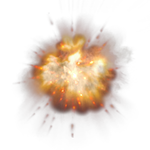
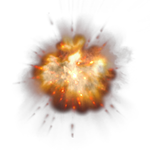
Exploding Asteroids

Changed region(s): [[0.2133, 0.24, 0.7733, 0.7467]]

diff --git a/lib/explosion.js b/lib/explosion.js
@@ -19,27 +19,34 @@
     window.Asteroids = {};
   };
 
-  var Explosion = Asteroids.Explosion = function (pos, game){
+  var Explosion = Asteroids.Explosion = function (pos, game, radius){
 
     this.pos = pos;
-    this.radius = 75;
+    this.radius = radius;
     this.game = game
     this.img = new Image ();
+    if(radius > 50){
     this.img.src = "./images/boom.png";
+    }else{
+      this.img.src = "./images/boom2.png";
+    }
+
     this.opacity = 1;
   };
 
   Asteroids.Util.inherits(Explosion, Asteroids.MovingObject);
 
   Explosion.prototype.draw = function(ctx){
-    // ctx.globalAlpha = this.opacity;
-    ctx.drawImage(this.img, this.pos[0] - this.radius, this.pos[1] - this.radius);
-    this.opacity -= 0.05;
-    if (this.opacity < 0.5){
+
+    if (this.opacity < 0){
       this.remove();
-      // ctx.globalAlpha = 1;
+    }
+    else{
+      ctx.globalAlpha = this.opacity;
+      ctx.drawImage(this.img, this.pos[0] - this.radius, this.pos[1] - this.radius);
     }
 
+    this.opacity -= 0.05;
   };
 
 

diff --git a/lib/game.js b/lib/game.js
@@ -71,8 +71,8 @@
     this.numAsteroids += numSmallAsteroids;
   };
 
-  Game.prototype.addExplosion = function(pos){
-    var explosion = new Asteroids.Explosion(pos, this);
+  Game.prototype.addExplosion = function(pos, radius){
+    var explosion = new Asteroids.Explosion(pos, this, radius);
     this.add(explosion);
   }
 
@@ -113,14 +113,15 @@
     ctx.clearRect(0,0,this.DIM_X, this.DIM_Y);
     // ctx.fillStyle = this.BG_COLOR;
     // ctx.fillRect(0,0,this.DIM_X, this.DIM_Y);
+    ctx.globalAlpha = 1;
     ctx.drawImage(img, 0, yOffset);
 
     this.allObjects().forEach(function (object) {
       object.draw(ctx);
     });
-    // this.explosions.forEach(function (object) {
-    //   object.draw(ctx);
-    // });
+    this.explosions.forEach(function (object) {
+      object.draw(ctx);
+    });
 
     ctx.fillStyle = "#0f0";
     ctx.font = "20px Orbitron";

diff --git a/lib/bullet.js b/lib/bullet.js
@@ -11,6 +11,8 @@
 
   Bullet.RADIUS = 2;
   Bullet.SPEED = 15;
+  Bullet.BIG_EXP_RAD = 75;
+  Bullet.SM_EXP_RAD = 37.5;
 
   Asteroids.Util.inherits(Bullet, Asteroids.MovingObject);
 
@@ -19,8 +21,11 @@
 
       this.remove();
       if (otherObject.radius === this.game.bigAsteroidRadius){
-        this.game.addExplosion(otherObject.pos);
+        this.game.addExplosion(otherObject.pos, Bullet.BIG_EXP_RAD);
         this.game.addSmallAsteroids(otherObject.pos);
+      }else{
+        this.game.addExplosion(otherObject.pos, Bullet.SM_EXP_RAD);
+
       }
 
       otherObject.remove();
